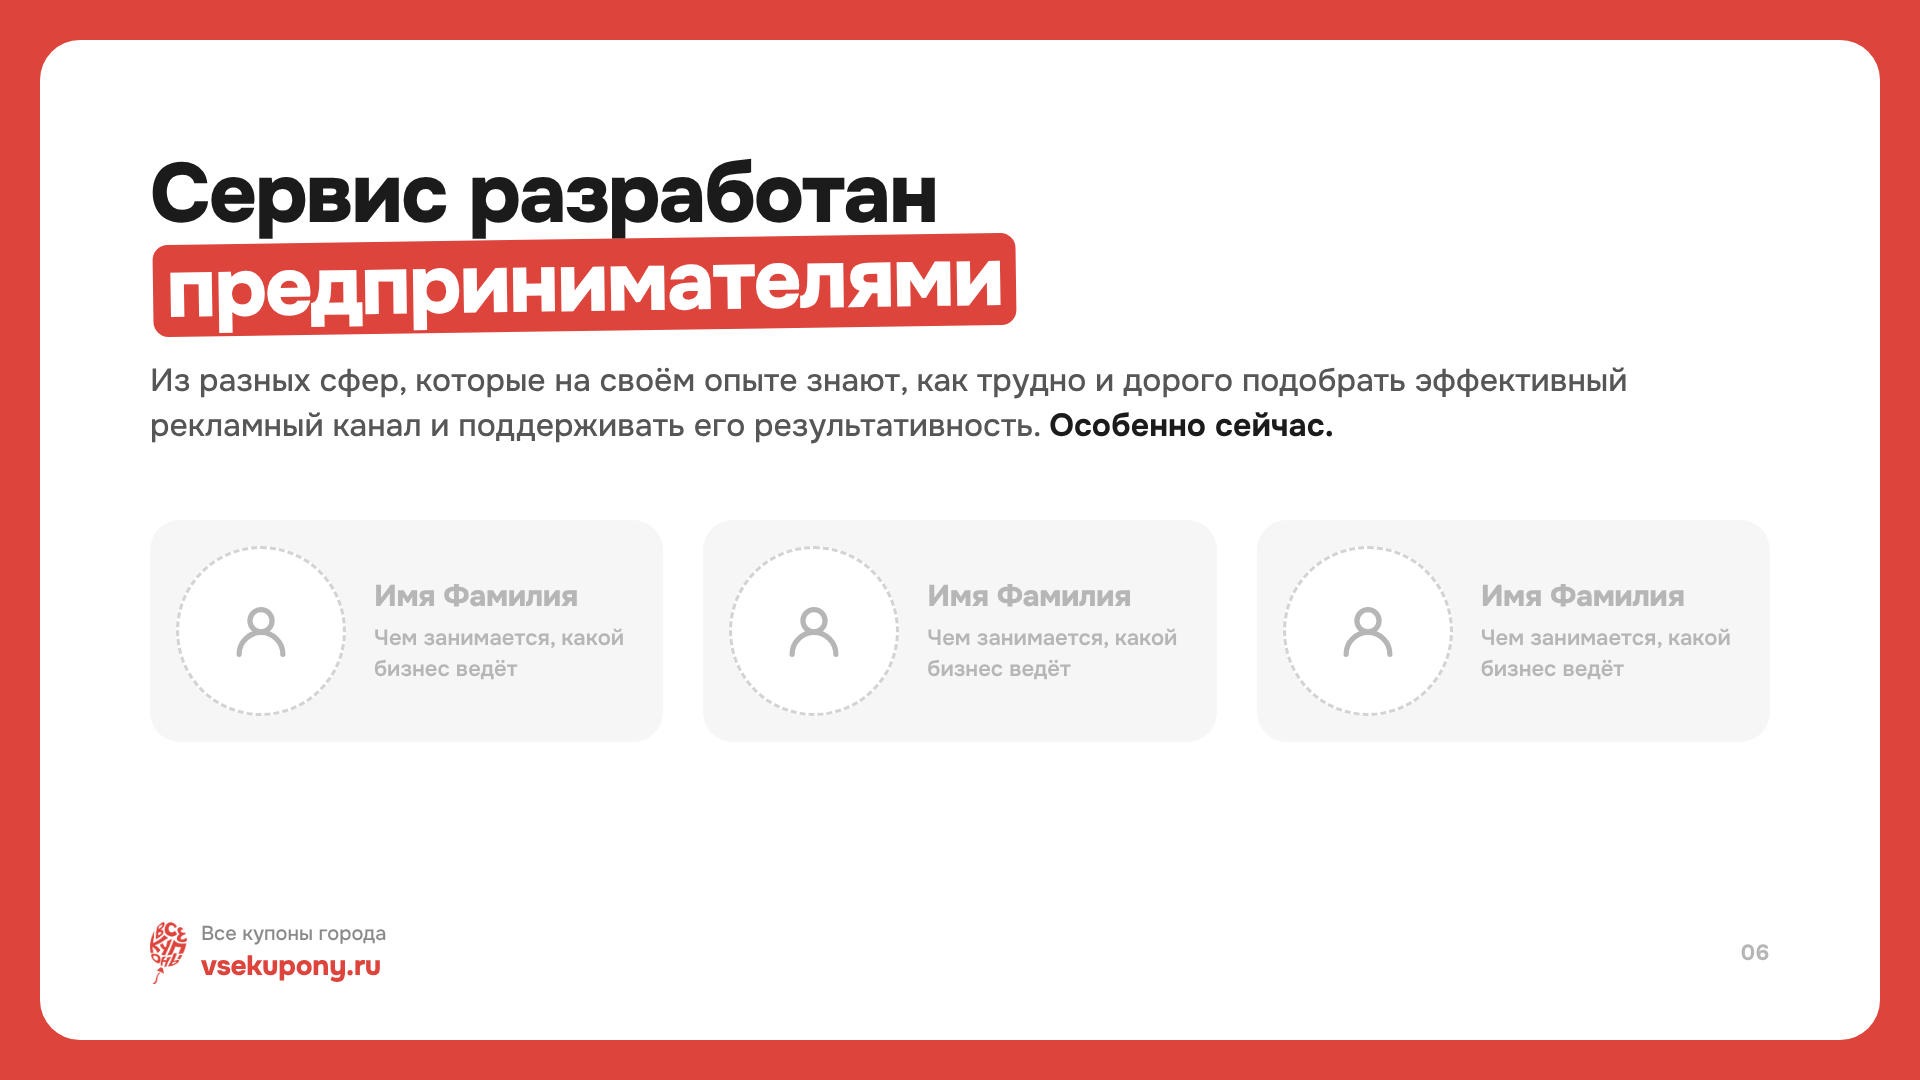
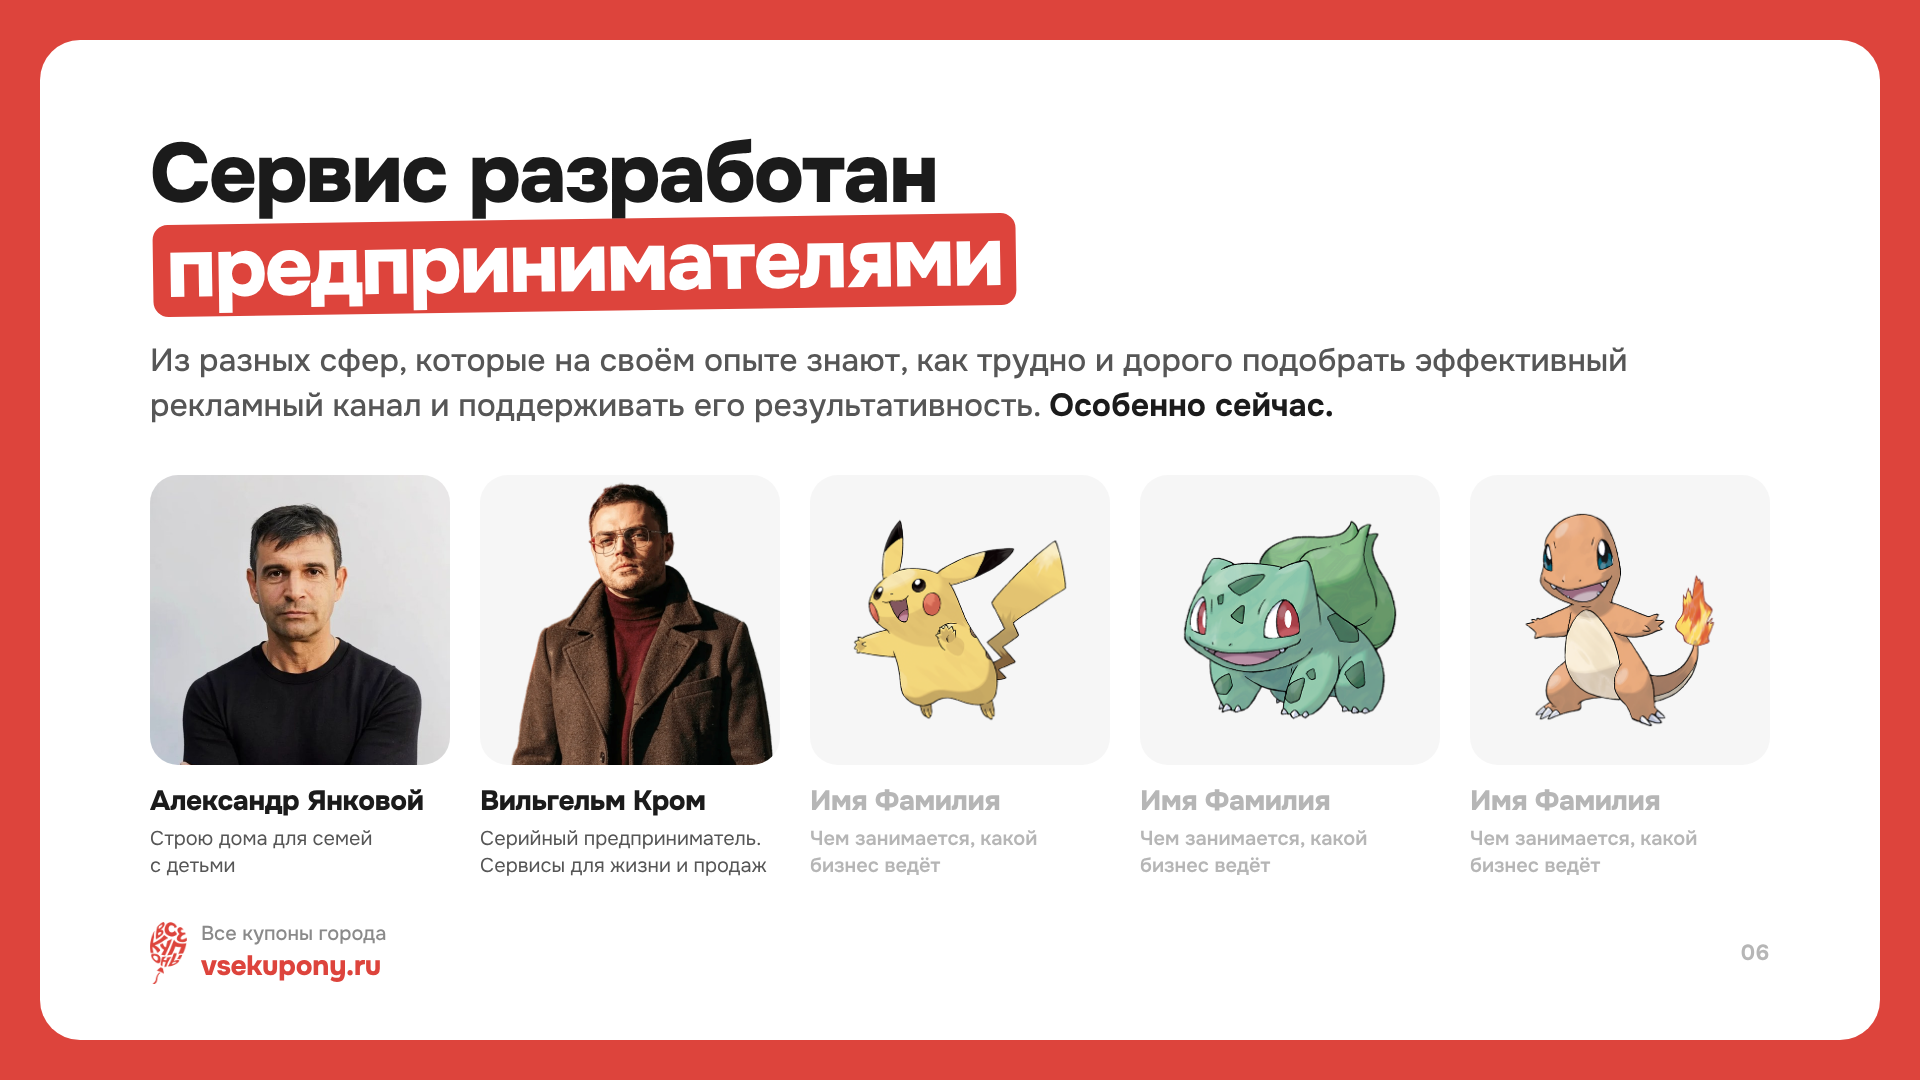
Презентация: команда из пяти — Янковой и Кром с фото, остальные пока заглушки
Claude-Session: https://claude.ai/code/session_01CdubX69oiZDyKnux8qspFS

Changed region(s): [[0.0625, 0.1222, 0.9062, 0.825], [0.75, 0.7333, 0.875, 0.825], [0.5938, 0.7333, 0.7188, 0.825]]

diff --git a/social-kit/deck.html b/social-kit/deck.html
@@ -283,16 +283,15 @@ a{color:inherit;text-decoration:none}
 /* ==========================================================================
    4. Сервис разработан предпринимателями — команда
    ========================================================================== */
-#s4 .in{width:1660px;top:110px}
+#s4 .in{width:1660px;top:90px}
 #s4 .h1{margin:0}
 #s4 .sub{max-width:1640px}
-.team{position:absolute;left:150px;right:150px;top:520px;display:flex;gap:40px}
-.mate{flex:1;display:flex;align-items:center;gap:28px;padding:26px;border-radius:30px;background:var(--surface)}
-.mate__ph{width:170px;height:170px;border-radius:50%;flex:none;display:grid;place-items:center;
-  background:#fff;border:3px dashed var(--line-strong);color:var(--ink-4)}
-.mate__ph svg{width:70px;height:70px}
-.mate__n{font-size:30px;font-weight:800;letter-spacing:-.015em}
-.mate__r{margin-top:8px;font-size:22px;line-height:1.4;color:var(--ink-2)}
+.team{position:absolute;left:150px;right:150px;top:475px;display:flex;gap:30px}
+.mate{flex:1;min-width:0}
+.mate__ph{height:290px;border-radius:28px;background:var(--surface) center 15%/cover no-repeat}
+.mate__ph--pk{background-size:78%;background-position:center}
+.mate__n{margin-top:20px;font-size:28px;font-weight:800;letter-spacing:-.015em;line-height:1.15}
+.mate__r{margin-top:8px;font-size:20px;line-height:1.35;color:var(--ink-2)}
 
 /* ==========================================================================
    7а. Один купон — несколько площадок: купон в центре, каналы по бокам
@@ -843,11 +842,13 @@ a{color:inherit;text-decoration:none}
         <p class="sub">Из&nbsp;разных сфер, которые на&nbsp;своём опыте знают, как трудно и&nbsp;дорого подобрать эффективный рекламный канал и&nbsp;поддерживать его результативность. <b>Особенно&nbsp;сейчас.</b></p>
       </div>
     </div>
-    <!-- Фото и подписи команды — ждём от заказчика -->
+    <!-- Команда: фото в photos/team/. Покемоны — заглушки, пока нет остальных участников -->
     <div class="team">
-      <div class="mate"><div class="mate__ph"><svg data-i="user"></svg></div><div><div class="mate__n todo">Имя Фамилия</div><div class="mate__r todo">Чем занимается, какой бизнес ведёт</div></div></div>
-      <div class="mate"><div class="mate__ph"><svg data-i="user"></svg></div><div><div class="mate__n todo">Имя Фамилия</div><div class="mate__r todo">Чем занимается, какой бизнес ведёт</div></div></div>
-      <div class="mate"><div class="mate__ph"><svg data-i="user"></svg></div><div><div class="mate__n todo">Имя Фамилия</div><div class="mate__r todo">Чем занимается, какой бизнес ведёт</div></div></div>
+      <div class="mate"><div class="mate__ph" style="background-image:url('photos/team/yankovoy.jpg')"></div><div class="mate__n">Александр Янковой</div><div class="mate__r">Строю дома для&nbsp;семей с&nbsp;детьми</div></div>
+      <div class="mate"><div class="mate__ph" style="background-image:url('photos/team/krom.png')"></div><div class="mate__n">Вильгельм Кром</div><div class="mate__r">Серийный предприниматель. Сервисы для&nbsp;жизни и&nbsp;продаж</div></div>
+      <div class="mate"><div class="mate__ph mate__ph--pk" style="background-image:url('photos/team/pokemon-25.png')"></div><div class="mate__n todo">Имя Фамилия</div><div class="mate__r todo">Чем занимается, какой бизнес ведёт</div></div>
+      <div class="mate"><div class="mate__ph mate__ph--pk" style="background-image:url('photos/team/pokemon-1.png')"></div><div class="mate__n todo">Имя Фамилия</div><div class="mate__r todo">Чем занимается, какой бизнес ведёт</div></div>
+      <div class="mate"><div class="mate__ph mate__ph--pk" style="background-image:url('photos/team/pokemon-4.png')"></div><div class="mate__n todo">Имя Фамилия</div><div class="mate__r todo">Чем занимается, какой бизнес ведёт</div></div>
     </div>
     <div class="foot">
       <span class="foot__brand"><img src="../assets/brand/logo-red.png" alt=""><span>Все купоны города<b>vsekupony.ru</b></span></span>

diff --git a/social-kit/README.md b/social-kit/README.md
@@ -168,7 +168,7 @@
   `promokod.png`: файл сам встаёт в рамку окна.
 
 Заглушки до получения данных: скриншоты Вордстата, ссылки на сообщества
-(`SOCIAL` в скрипте), фото и подписи команды.
+(`SOCIAL` в скрипте), трое участников команды — пока покемоны (`photos/team/`).
 После «Сервис разработан предпринимателями» — «Один купон — несколько площадок»
 (купон и шесть каналов) и «Реклама не должна быть дорогой» (сравнение с каналами,
 оценки из таблицы заказчика). «Посчитаем выгоду» убран 07.10.
